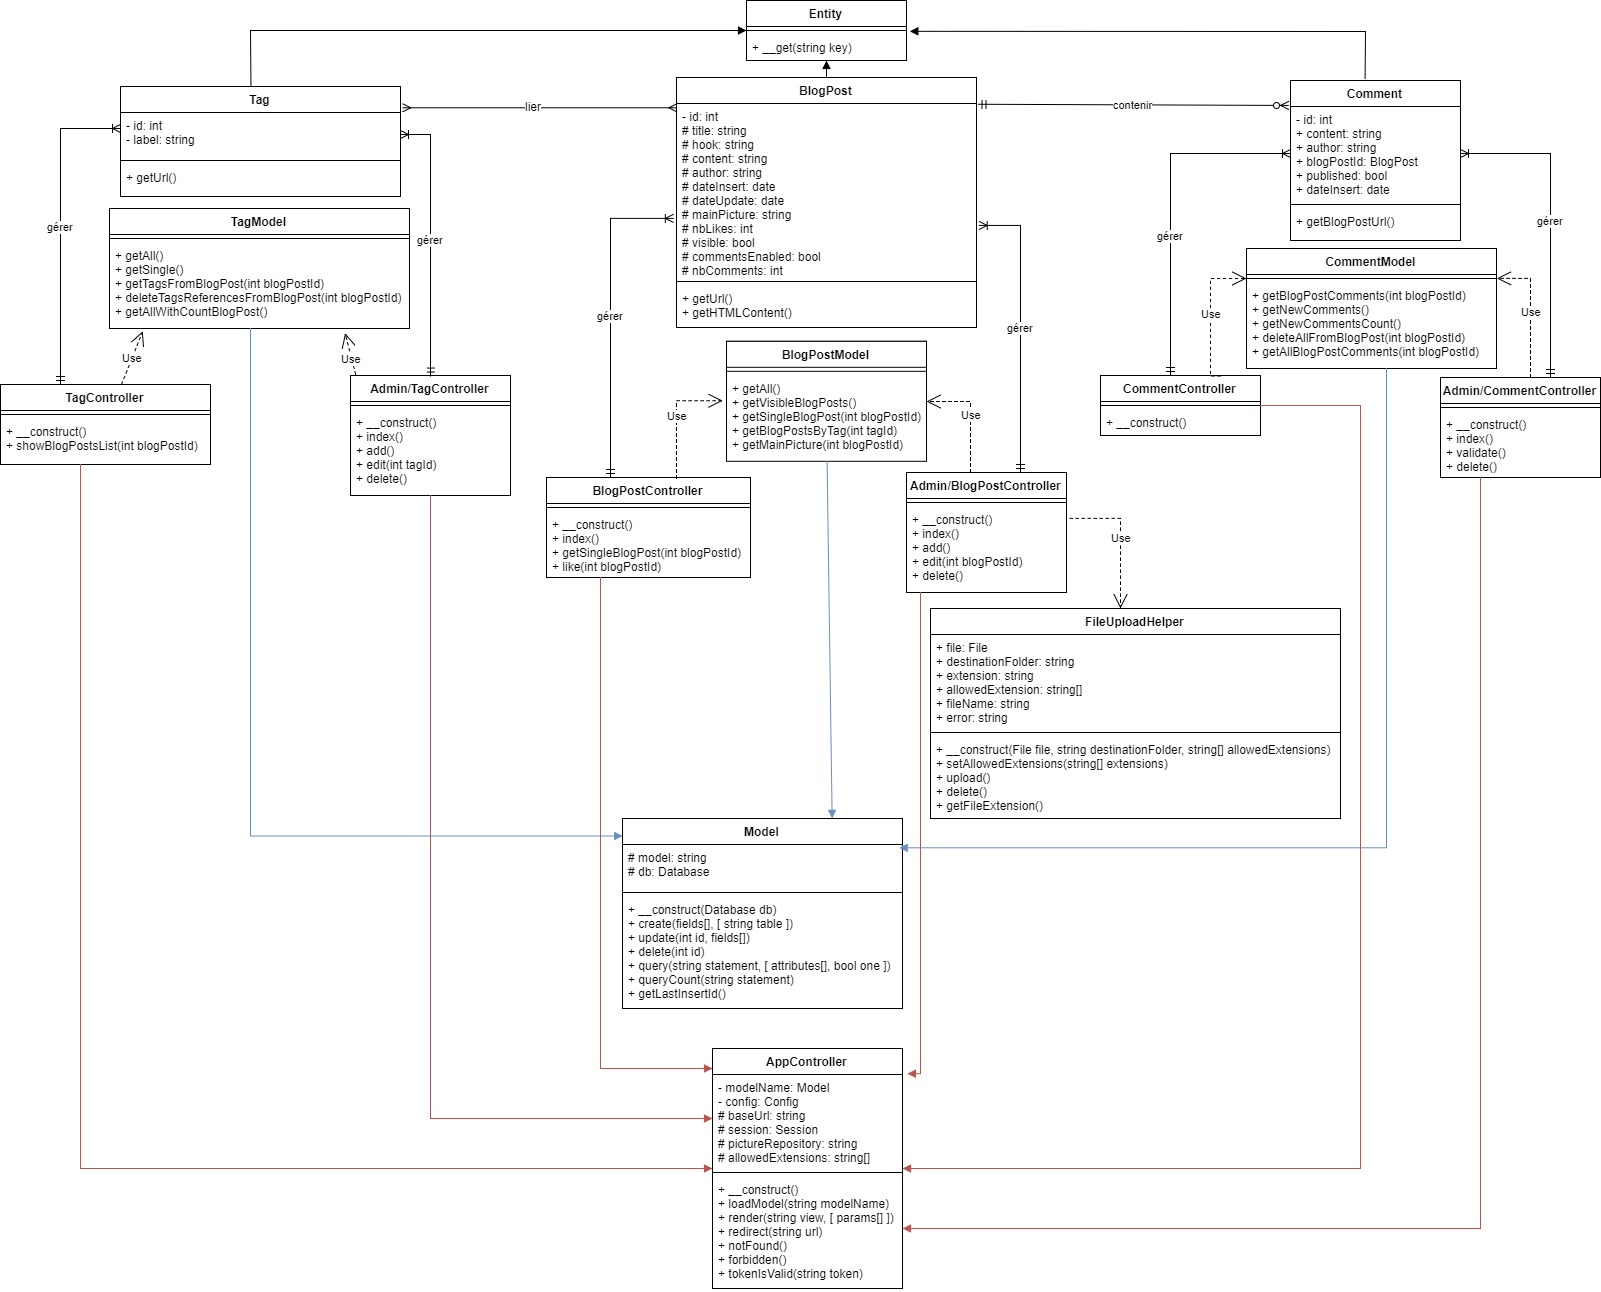
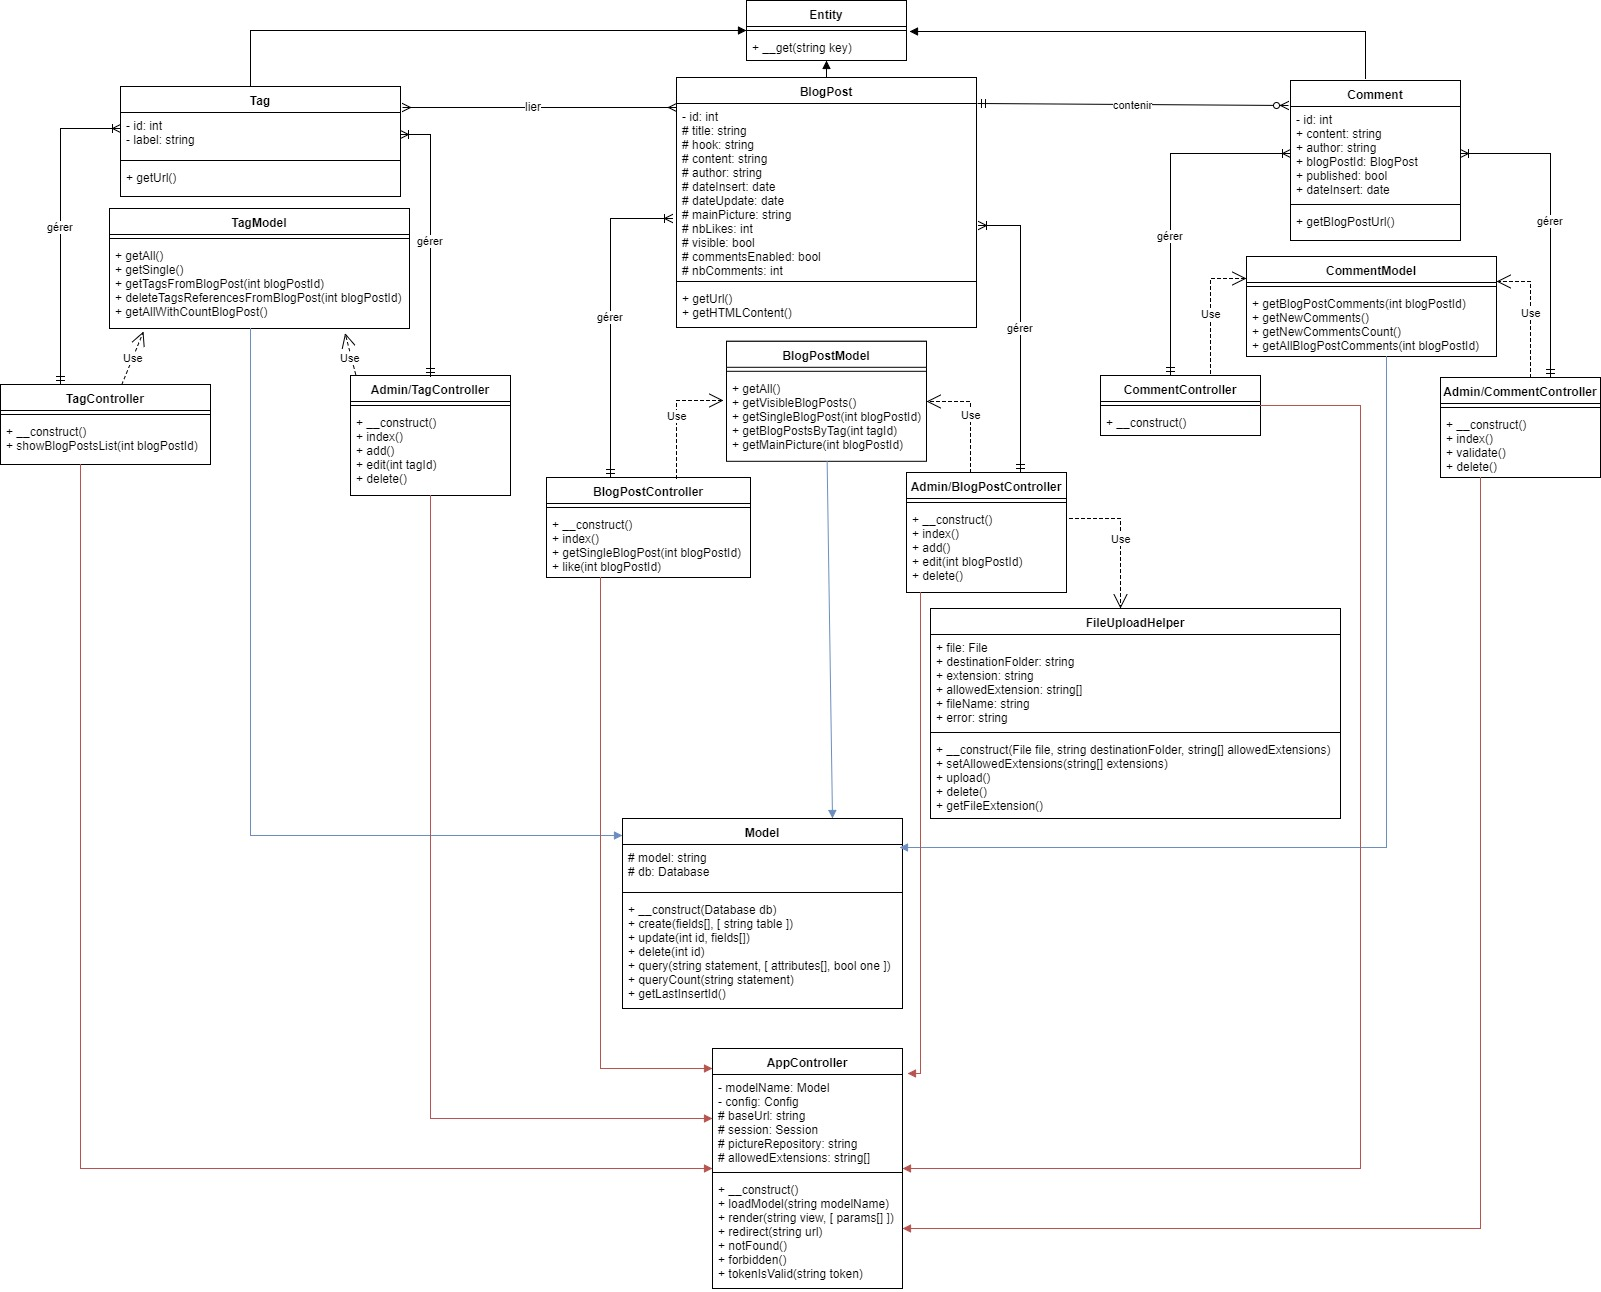
Comments deletion on blogpost deletion + UML

diff --git a/app/model/CommentModel.php b/app/model/CommentModel.php
@@ -54,15 +54,4 @@
 				WHERE NOT c.published"		
 			);
 		}
-
-		/*
-		 * Deletes comments from blogpost
-		 */
-		public function deleteAllFromBlogPost ($id) {
-			return $this->query(
-				"DELETE FROM comment
-				WHERE blogpost_id = ?",
-				[$id]
-			);
-		}
 	}
